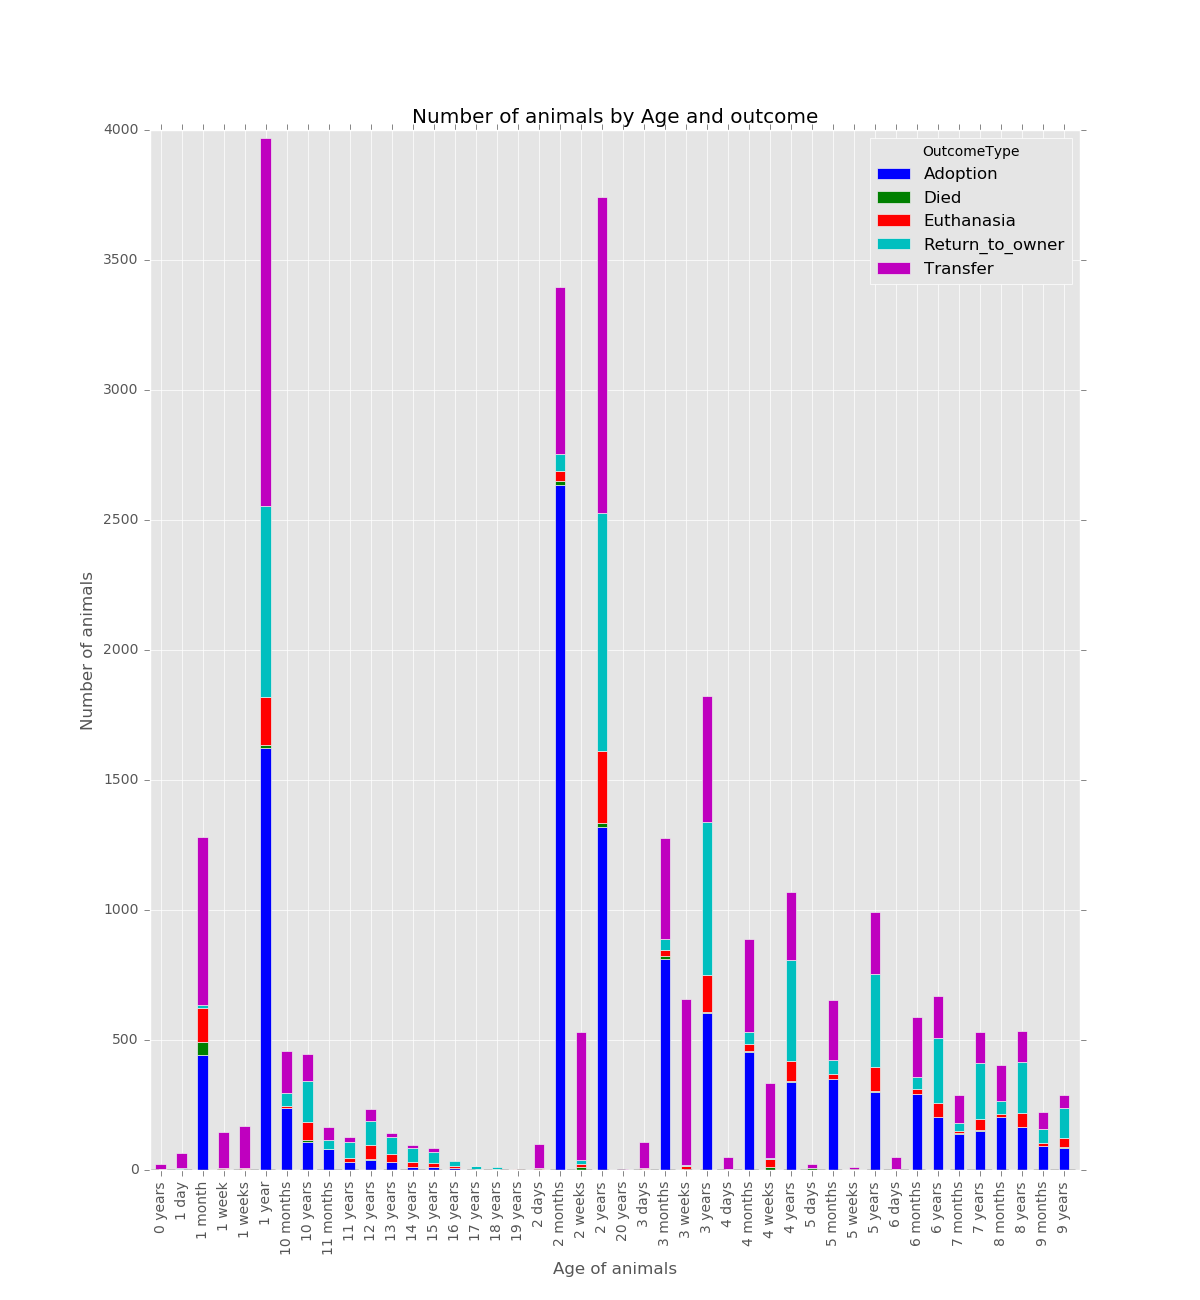
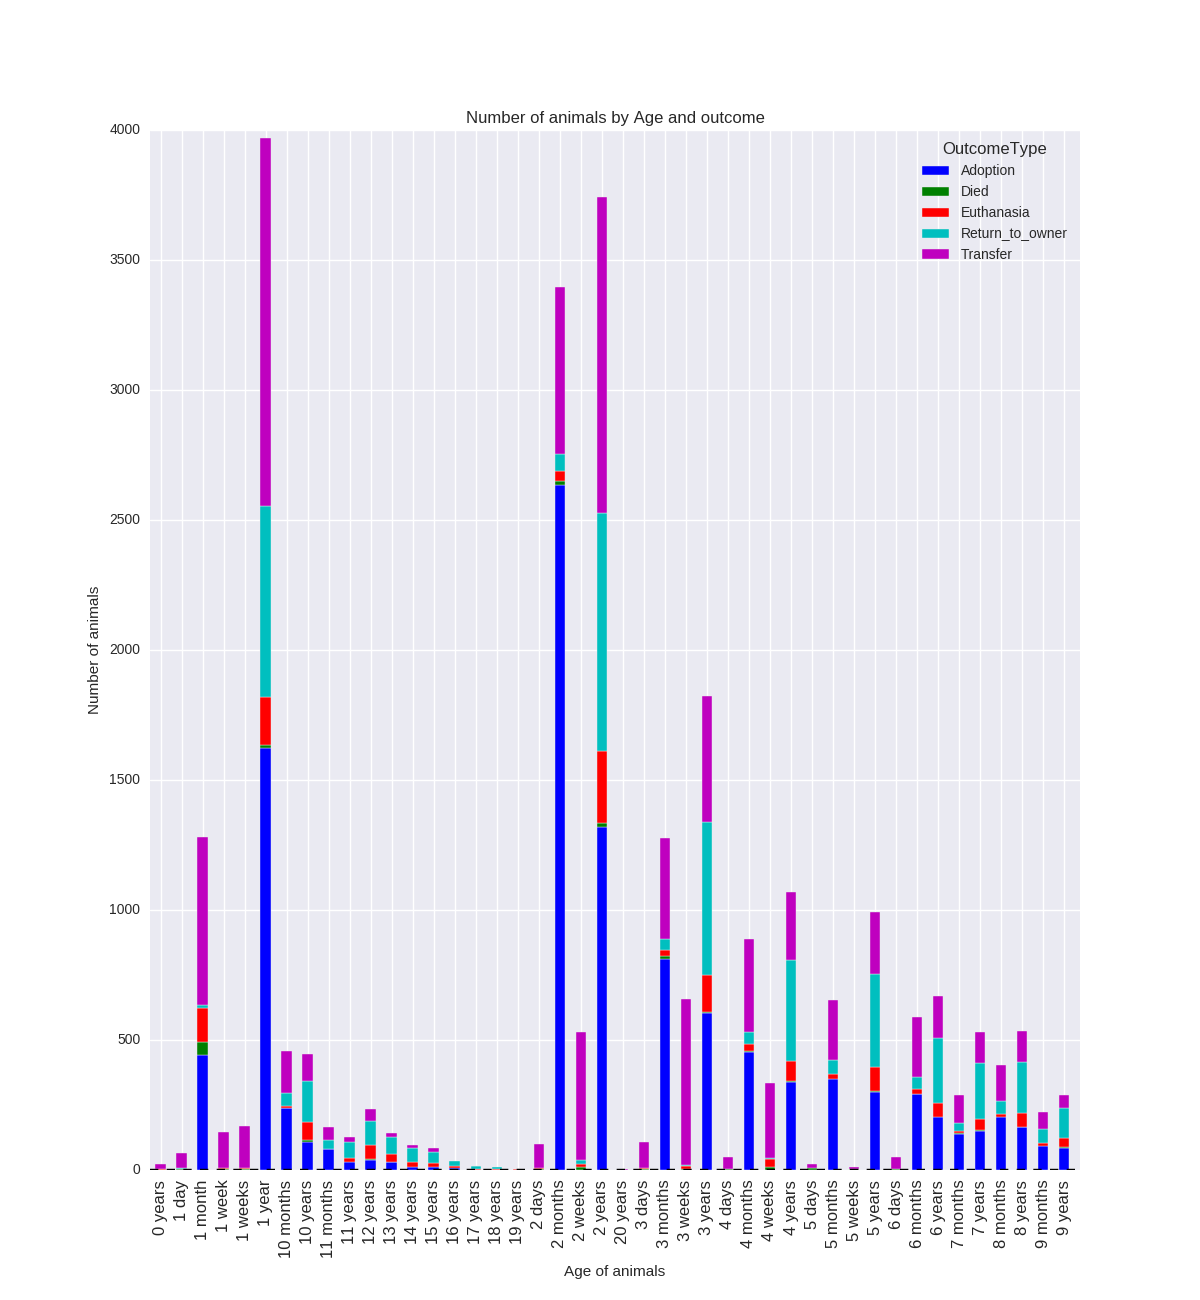
Added methods for plotting outcome percentages.

diff --git a/Python Version/BarChartPlot.py b/Python Version/BarChartPlot.py
@@ -1,7 +1,8 @@
 #!/usr/bin/python3
 
 import matplotlib.pyplot as plt
-from Dataset import Dataset
+import matplotlib.ticker as ticker
+import seaborn
 
 
 class BarChartPlot:
@@ -9,11 +10,14 @@ class BarChartPlot:
 
     def __init__(self, dataset):
         plt.style.use('ggplot')
+        seaborn.set(style="darkgrid")
         self._dataset = dataset.get()
 
     # Plot a bar chart stacked of the number of animals by age stacked by outcome.
     def plot_age_by_outcome(self):
-        age = self._dataset.groupby(['AgeuponOutcome', 'OutcomeType']).size().unstack()
+        self._dataset['AgeuponOutcome'].replace('1 weeks', '1 week')
+        age = self._dataset.groupby(['AgeuponOutcome', 'OutcomeType']).size().unstack(1)
+
         age_plot = age.plot(kind='bar', stacked=True, figsize=(12, 13))
         age_plot.set_title('Number of animals by Age and outcome')
         age_plot.set_xlabel('Age of animals')
@@ -22,3 +26,53 @@ class BarChartPlot:
         fig = age_plot.get_figure()
         fig.savefig('AgeByOutcome.png')
 
+    # Plot the overall percentage of animals by outcome.
+    def plot_outcome_percentages(self):
+        outcome = self._dataset.groupby('OutcomeType').size() / len(self._dataset)
+        print(outcome * 100)
+        outcome_plot = outcome.plot(kind='bar', figsize=(12, 13))
+        outcome_plot.set_title('Percentage of animals by outcome')
+        outcome_plot.set_xlabel('Outcomes')
+        outcome_plot.set_ylabel('Percentage of animals')
+        vals = outcome_plot.get_yticks()
+        outcome_plot.set_yticklabels(['{:3.0f}%'.format(x * 100) for x in vals])
+
+        fig = outcome_plot.get_figure()
+        fig.savefig('OutcomePercentage.png')
+
+    # Plot the percentage and number of animals by outcome.
+    def plot_outcome_percentages_per_animal_type(self):
+        plt.figure(figsize=(12, 8))
+        ax = seaborn.countplot(x='OutcomeType', hue='AnimalType', data=self._dataset)
+        plt.title('Percentage of cats and dogs by outcome')
+        plt.xlabel('Outcomes')
+
+        # Make twin axis
+        ax2 = ax.twinx()
+
+        # Switch so count axis is on right, frequency on left
+        ax2.yaxis.tick_left()
+        ax2.yaxis.set_label_position('left')
+        ax2.set_ylabel('Frequency [%]')
+        ax.yaxis.tick_right()
+        ax.yaxis.set_label_position('right')
+        ax.set_ylabel('Number of Animals')
+
+        ncount = len(self._dataset)
+        for p in ax.patches:
+            x = p.get_bbox().get_points()[:, 0]
+            y = p.get_bbox().get_points()[1, 1]
+            ax.annotate('{:2.2f}%'.format(100. * y / ncount),
+                        (x.mean(), y),
+                        ha='center',
+                        va='bottom')
+        # Use a LinearLocator to ensure the correct number of ticks
+        ax.yaxis.set_major_locator(ticker.LinearLocator(11))
+
+        # Fix the frequency range to 0-100
+        ax2.set_ylim(0, 100)
+        ax.set_ylim(0, ncount)
+
+        # And use a MultipleLocator to ensure a tick spacing of 10
+        ax2.yaxis.set_major_locator(ticker.MultipleLocator(10))
+        plt.savefig('OutcomePercentageByAnimalType.png')

diff --git a/Python Version/Analysis.py b/Python Version/Analysis.py
@@ -1,6 +1,16 @@
 #!/usr/bin/python3
 
 from Model import *
+from BarChartPlot import *
+
+
+# Plot all needed Bar charts.
+def explore(dataset):
+    bar_chart = BarChartPlot(dataset)
+    bar_chart.plot_age_by_outcome()
+    #bar_chart.plot_outcome_percentages()
+    #bar_chart.plot_outcome_percentages_per_animal_type()
+    #bar_chart.plot_age_by_outcome_per_animal_type()
 
 
 def main():
@@ -10,8 +20,7 @@ def main():
     test = Dataset()
     test.load("../test.csv")
 
-    # Explore the train set.
-    #train.explore()
+    explore(train)
 
     # Transform / create / remove features from train and test sets.
     train.convert_age_to_integer()
@@ -21,7 +30,6 @@ def main():
     train.convert_animal_type_to_bool()
     train.extract_number_of_colors()
     train.extract_breed_types()
-    train.extract_special_breeds()
 
     test.convert_age_to_integer()
     test.convert_name_to_bool()
@@ -30,13 +38,12 @@ def main():
     test.convert_animal_type_to_bool()
     test.extract_number_of_colors()
     test.extract_breed_types()
-    test.extract_special_breeds()
 
-    train_model = Model(train, test)
-    best_parameters = train_model.find_best_parameters(number_of_estimators=100)
+    #train_model = Model(train, test)
+    #best_parameters = train_model.find_best_parameters(number_of_estimators=100)
     #best_parameters = {'subsample': 0.8, 'colsample_bytree': 0.9, 'learning_rate': 0.12}
-    predictions = train_model.train(best_parameters, number_of_estimators=100)
-    train_model.save(predictions)
+    #predictions = train_model.train(best_parameters, number_of_estimators=100)
+    #train_model.save(predictions)
 
 
 if __name__ == "__main__":

diff --git a/Python Version/Dataset.py b/Python Version/Dataset.py
@@ -3,7 +3,6 @@
 import pandas
 import pathlib
 from datetime import datetime
-from BarChartPlot import *
 
 
 class Dataset:
@@ -23,11 +22,6 @@ class Dataset:
     # Remove features (columns) specified from the dataset.
     def remove_features(self, features):
         self._dataset = self._dataset.drop(features, axis=1)
-
-    # Plot all needed Bar charts.
-    def explore(self):
-        bar_chart = BarChartPlot(self._dataset)
-        bar_chart.plot_age_by_outcome()
 
     # We transform the feature AgeuponOutcome to integer values. For example, the age should be counted in days.
     # Thus, 2 years is replaced by the value 2 * 365 = 730. For months, the formula is age * 30.
@@ -133,7 +127,7 @@ class Dataset:
             else:
                 breed_type_list.append(0)
         self._dataset['BreedType'] = breed_type_list
-        self.extractSpecialBreeds()
+        self.extract_special_breeds()
         self.remove_features('Breed')
 
     # Special cases with Pit Bull, Shih Tzu and Pug are considered since they are less adopted than the others.
